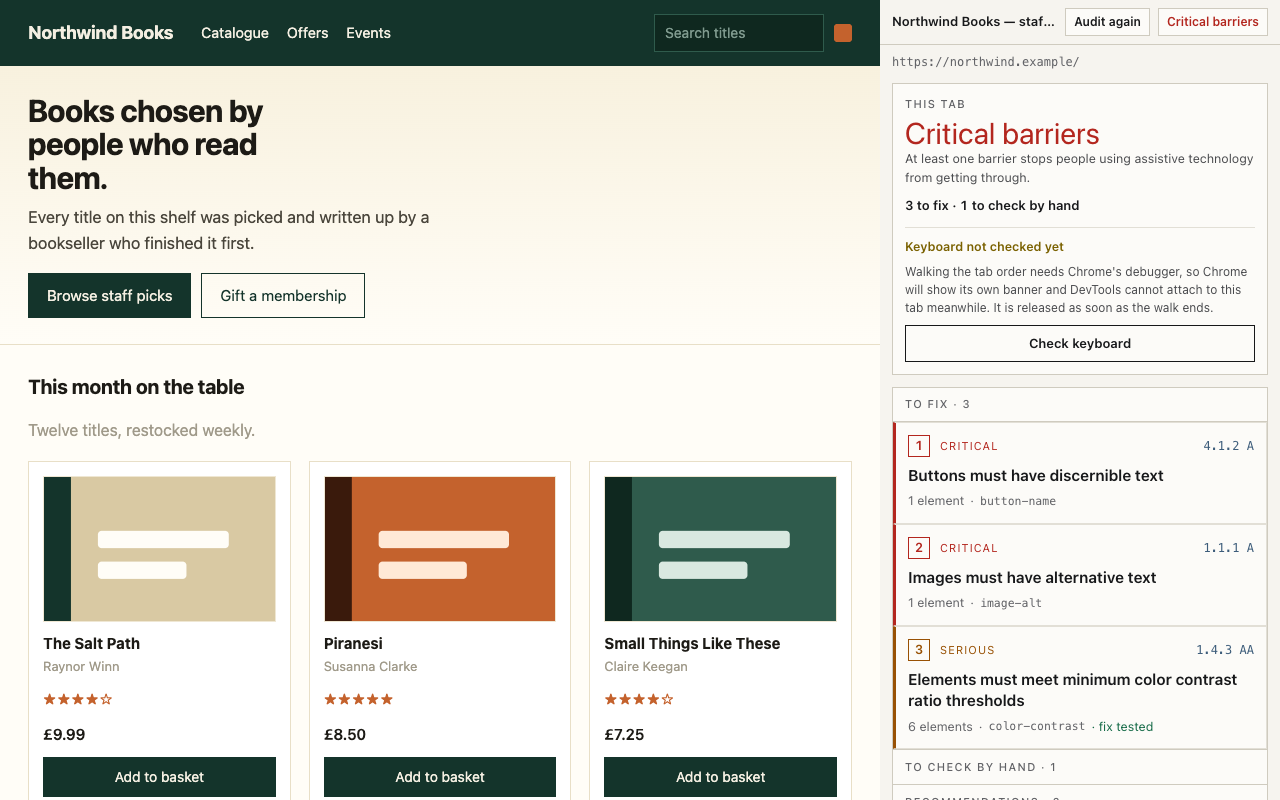
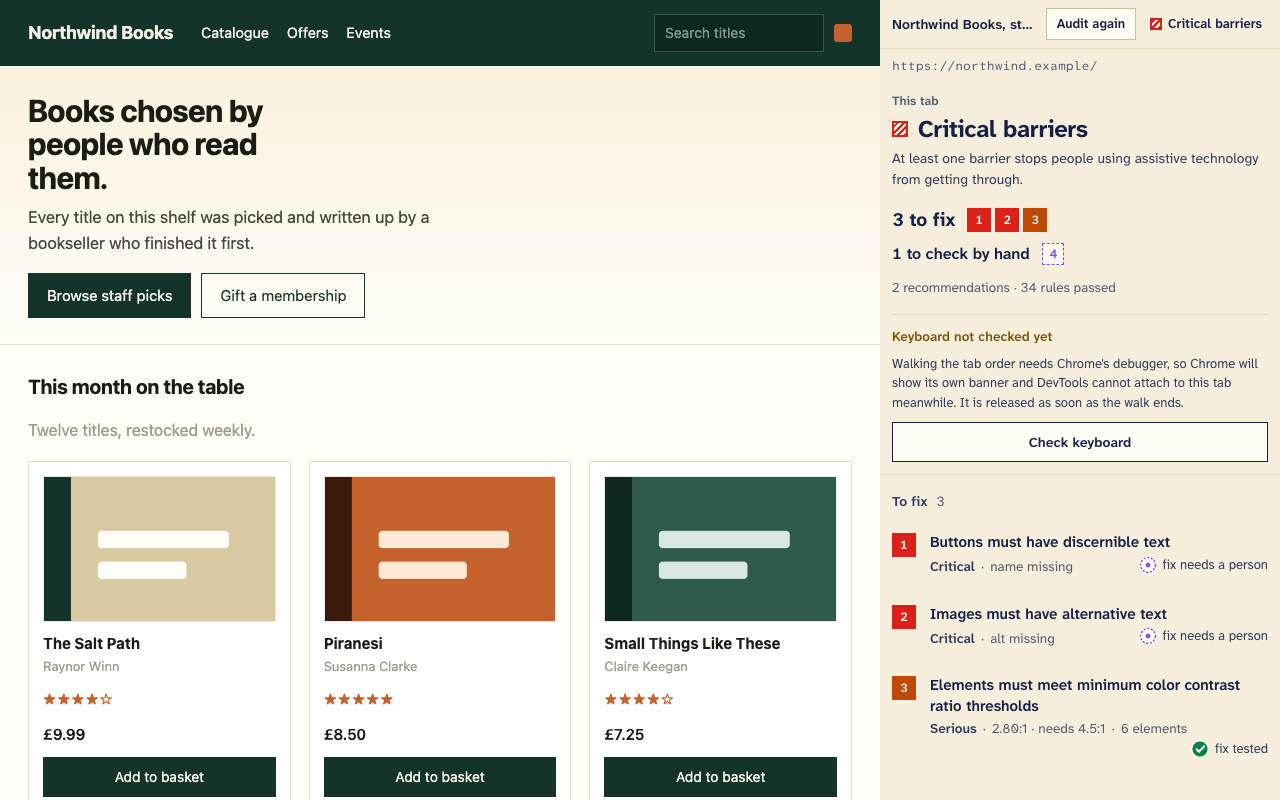
chore(extension): release 1.4.0
Bumps the extension to 1.4.0, the first release of the panel built on the
shared investigation system: every problem reads as one chain, its
elements carry numbered marks on the page, and the panel takes the new
type and palette. It also ships the Locate on page fixes for pages that
hide empty boxes and for elements that are not showing, the wrapped
contrast sample and the "tested on this page" wording.

STORE-LISTING.md gets the new version, the reviewer steps in the new
vocabulary, new screenshot captions and a note of what changed. The store
descriptions in both languages describe the numbered marks and the chain
instead of the arrows and the box that fades. The privacy policy says the
marks stay while a problem is open and that a mark's number and the edge
arrow answer a click, and its effective date moves with the text.

The screenshot script reads the new panel, serves the fixture's covers as
files so the alt suggestion reads like a real one, and frames the
contrast shot from Measured to Verified. The five store screenshots are
regenerated.

Changed region(s): [[0.6875, 0.0, 1.0, 1.0]]

diff --git a/extension/STORE-LISTING.md b/extension/STORE-LISTING.md
@@ -6,7 +6,7 @@ submitted automatically.
 ## Basics
 
 - **Item name:** AccessCheck
-- **Version:** 1.3.1
+- **Version:** 1.4.0
 - **Category:** Developer Tools
 - **Default language:** English (United States)
 - **Visibility:** Public
@@ -41,10 +41,12 @@ Typed into the dashboard once per language. Paste the files as they are:
 The five files in `store/screenshots/`, in order, all 1280×800:
 
 1. `1-verdict-and-findings.png`: the verdict, the work left and the queue
-2. `2-element-identity.png`: a problem opened on where it is
-3. `3-verified-fix.png`: a fix tested on the page and undone
+2. `2-element-identity.png`: a problem opened on its element, with what screen
+   readers hear and what to change
+3. `3-verified-fix.png`: a contrast problem measured, changed and tested on the
+   page
 4. `4-focus-path.png`: the tab order inspected stop by stop
-5. `5-located-on-page.png`: an element found and drawn on the live page
+5. `5-located-on-page.png`: an element found and marked on the live page
 
 Regenerate them with `npm run build:screenshots`.
 
@@ -53,9 +55,10 @@ Regenerate them with `npm run build:screenshots`.
 1. Open any ordinary web page.
 2. Click the AccessCheck icon in the toolbar. The side panel opens and the audit
    runs. No debugger is attached at this point.
-3. Open a problem in To fix. It starts with where the problem is: press
-   "Locate on page", or step through the elements with the arrows, and the
-   element is drawn on the page.
+3. Open a problem in To fix. Its elements are marked on the page with numbers,
+   and the problem reads in order: where it is, what was measured, what to
+   change and whether the fix was tested. Press "Locate on page" to scroll to an
+   element, or pick another one from the numbered chips.
 4. Press "Check keyboard" to follow the real tab order. Chrome shows its own
    banner while the debugger is attached and releases it when the check ends.
    The top of the panel then says what the round found.
@@ -141,6 +144,26 @@ Certifications to accept, all of which the code supports:
 > Clicking the toolbar icon runs the whole audit, including the rules, the
 > extension's own checks and the fix verification, without attaching the
 > debugger at all.
+
+## What changed in 1.4.0
+
+- Every problem reads as one chain, the same as on the site: why it matters,
+  Located, Measured, Change, and then whether the fix was tested or needs a
+  person. The selector, the HTML and the raw numbers stay under Details.
+- Opening a problem marks each of its elements on the page with a number, such
+  as 3·1 and 3·2. Numbered chips in the panel pick an element, and clicking a
+  mark on the page picks it in the panel.
+- The verdict shows each problem as a numbered square in its severity color,
+  next to "to fix" and "to check by hand".
+- New type and palette: Atkinson Hyperlegible, warm paper, dark ink and
+  stronger severity colors.
+- "Locate on page" works on pages whose CSS hides empty boxes, such as
+  Shopify's Dawn theme, where the marks used to vanish.
+- When the element sits in a closed menu, drawer or dialog, or off to the side,
+  "Locate on page" says so instead of doing nothing.
+- The text sample in a contrast problem wraps instead of being cut.
+- A tested fix now says it was tested on this page and undone, which is what
+  the extension does.
 
 ## What changed in 1.3.1
 

diff --git a/extension/PRIVACY.pt-BR.md b/extension/PRIVACY.pt-BR.md
@@ -1,6 +1,6 @@
 # Extensão AccessCheck: política de privacidade
 
-**Em vigor desde 29 de setembro de 2026.** Esta política cobre a extensão de
+**Em vigor desde 2 de outubro de 2026.** Esta política cobre a extensão de
 navegador do AccessCheck. O analisador hospedado no site do AccessCheck é um
 produto separado, com contas e armazenamento próprios; esta política trata
 apenas da extensão.
@@ -41,14 +41,17 @@ disparados por você e os dois desfeitos na hora:
   compara o markup da página antes e depois, byte a byte, e quebra o build se
   houver qualquer diferença. Sugestões que dependem do que a página significa
   nunca são aplicadas.
-- **Para mostrar um elemento.** Quando você aperta "Localizar na página", ou
-  passa para outro elemento com as setas, ela desenha uma caixa de destaque num
-  contêiner próprio na raiz do documento. Inspecionar a ordem de tabulação
-  desenha marcadores numerados do mesmo jeito. O contêiner é `aria-hidden`, não
-  recebe eventos e nunca toca os elementos auditados. A caixa de um elemento
-  localizado some depois de alguns segundos, os marcadores da ordem de
-  tabulação somem quando você aperta Sair, e tudo o que ela desenhou é removido
-  quando o painel fecha e no início de qualquer auditoria.
+- **Para mostrar um elemento.** Quando você abre um problema, aperta
+  "Localizar na página" ou escolhe um dos elementos dele, ela desenha marcações
+  numeradas num contêiner próprio na raiz do documento. Inspecionar a ordem de
+  tabulação desenha marcadores numerados do mesmo jeito. O contêiner é
+  `aria-hidden` e nunca toca os elementos auditados. Só duas partes dele
+  respondem a um clique: o número de uma marcação, que escolhe aquele elemento
+  no painel, e a seta que aparece para um elemento fora da tela, que rola a
+  página até ele. As marcações ficam enquanto o problema está aberto, os
+  marcadores da ordem de tabulação somem quando você aperta Sair, e tudo o que
+  ela desenhou é removido quando você fecha o problema ou o painel, e no início
+  de qualquer auditoria.
 
 Nada do que você digitou é escrito, relido ou guardado.
 

diff --git a/extension/PRIVACY.md b/extension/PRIVACY.md
@@ -1,6 +1,6 @@
 # AccessCheck extension: privacy policy
 
-**Effective 29 September 2026.** This policy covers the AccessCheck browser
+**Effective 2 October 2026.** This policy covers the AccessCheck browser
 extension. The hosted scanner at the AccessCheck website is a separate product
 with its own accounts and storage; this policy is only about the extension.
 
@@ -37,13 +37,15 @@ trigger and both undone immediately:
   it found it. An automated check in the project compares the page's markup before
   and after, byte for byte, and fails the build on any difference. Suggestions
   that depend on what the page means are never applied.
-- **Showing an element.** When you press "Locate on page", or step to another
-  element with the arrows, it draws a highlight box in its own container at the
+- **Showing an element.** When you open a problem, press "Locate on page" or
+  pick one of its elements, it draws numbered marks in its own container at the
   document root. Inspecting the tab order draws numbered markers the same way.
-  The container is `aria-hidden`, takes no events and never touches the audited
-  elements. A located box fades after a few seconds, the tab order markers are
-  removed when you press Exit, and everything it drew is removed when the panel
-  closes and at the start of any audit.
+  The container is `aria-hidden` and never touches the audited elements. Only
+  two parts of it answer a click: a mark's number, which picks that element in
+  the panel, and the arrow shown for an element off screen, which scrolls the
+  page to it. The marks stay while the problem is open, the tab order markers
+  are removed when you press Exit, and everything it drew is removed when you
+  close the problem or the panel, and at the start of any audit.
 
 Nothing you typed is written, read back or stored.
 
